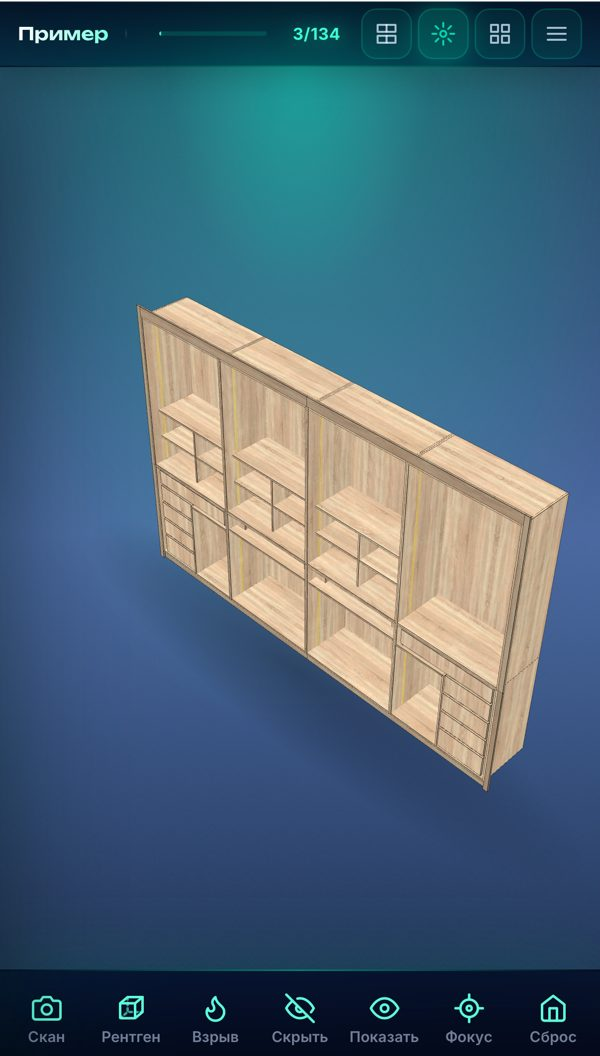
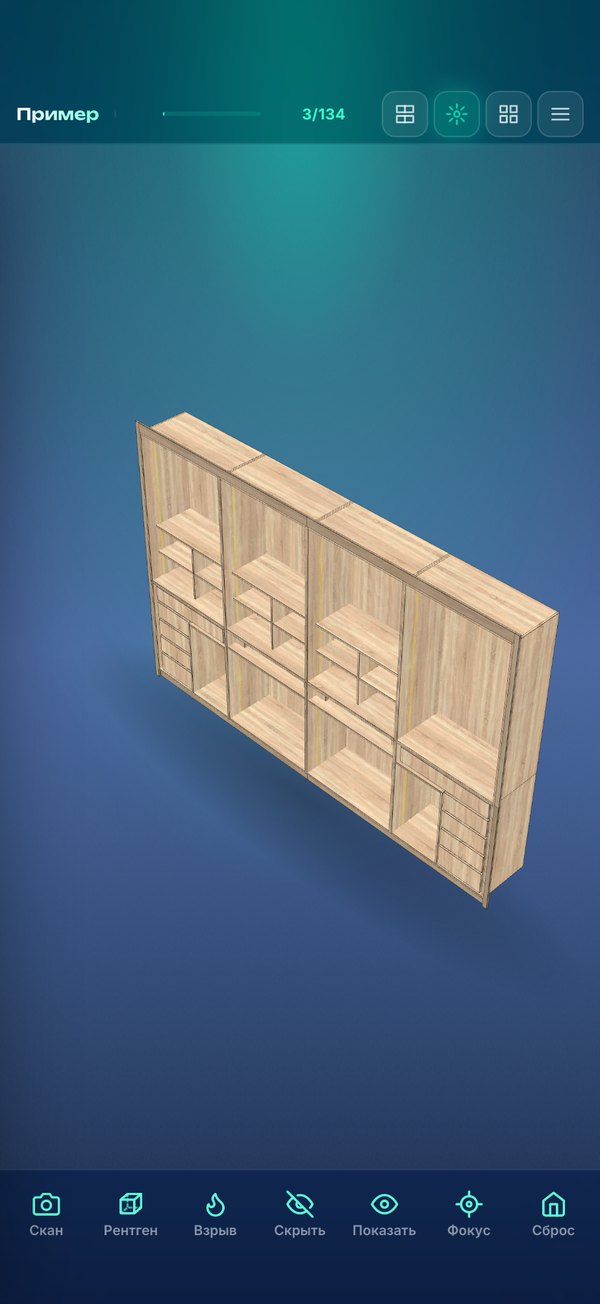
Панели «Дымчатое стекло»; закрытая карточка детали не выглядывает; лендинг: рамка как у iPhone Pro Max (титан, тонкая кайма, Dynamic Island, строка состояния) и новые скриншоты в пропорциях Pro Max (sw v39, styles v23)

Changed region(s): [[0.21, 0.2812, 0.96, 0.75], [0.0, 0.0, 1.0, 0.125], [0.0, 0.875, 1.0, 1.0]]

diff --git a/index.html b/index.html
@@ -375,11 +375,31 @@
     /* витрина: телефон */
     .phone-show { display: flex; justify-content: center; position: relative; }
     .phone-show::before { content: ''; position: absolute; inset: 10% 20%; background: radial-gradient(closest-side, rgba(0, 212, 170, 0.28), transparent); filter: blur(40px); z-index: -1; }
-    .phone-frame { position: relative; width: min(300px, 78vw); padding: 10px; border-radius: 46px;
-      background: linear-gradient(145deg, #2a3550, #0b1022 40%, #1b2540);
-      box-shadow: 0 0 0 1px rgba(255, 255, 255, 0.12), 0 50px 100px rgba(0, 0, 0, 0.6), 0 0 90px rgba(0, 212, 170, 0.18); }
-    .phone-frame .shots { aspect-ratio: 600 / 1056; border-radius: 37px; overflow: hidden; background: #000; }
-    .phone-island { position: absolute; z-index: 3; top: 20px; left: 50%; width: 84px; height: 24px; margin-left: -42px; border-radius: 20px; background: #000; }
+    /* Рамка как у iPhone Pro Max: тонкий титановый обод, узкая чёрная кайма, экран 440×956 */
+    .phone-frame { --pw: min(300px, 78vw); --sw: calc(var(--pw) - 14px);
+      position: relative; width: var(--pw); padding: 2.5px; border-radius: calc(var(--sw) * 0.125 + 7px);
+      background: linear-gradient(135deg, #9da2aa 0%, #4a4e55 14%, #d6d9de 30%, #5b5f66 48%, #2e3136 66%, #a9adb4 86%, #60646b 100%);
+      box-shadow: 0 70px 110px -40px rgba(0, 0, 0, 0.85), 0 30px 60px rgba(0, 0, 0, 0.45), 0 0 90px rgba(0, 212, 170, 0.12); }
+    .pf-bezel { padding: 4.5px; border-radius: calc(var(--sw) * 0.125 + 4.5px); background: #000;
+      box-shadow: inset 0 0 0 1px rgba(255, 255, 255, 0.07); }
+    .pf-screen { position: relative; border-radius: calc(var(--sw) * 0.125); overflow: hidden; background: #000; }
+    .pf-screen::after { content: ''; position: absolute; inset: 0; z-index: 4; pointer-events: none;
+      background: linear-gradient(118deg, rgba(255, 255, 255, 0.12) 0%, rgba(255, 255, 255, 0) 30%); }
+    .phone-frame .shots { aspect-ratio: 440 / 956; }
+    .phone-island { position: absolute; z-index: 3; top: calc(var(--sw) * 0.025); left: 50%;
+      width: calc(var(--sw) * 0.286); height: calc(var(--sw) * 0.084); transform: translateX(-50%); border-radius: 99px; background: #000; }
+    .pf-status { position: absolute; z-index: 3; left: 0; right: 0; top: calc(var(--sw) * 0.025); height: calc(var(--sw) * 0.084);
+      display: flex; align-items: center; justify-content: space-between; padding: 0 calc(var(--sw) * 0.085) 0 calc(var(--sw) * 0.11);
+      color: #fff; font: 600 calc(var(--sw) * 0.039) / 1 Inter, system-ui, sans-serif; letter-spacing: -0.01em; }
+    .pf-status i { display: flex; align-items: center; gap: calc(var(--sw) * 0.014); }
+    .pf-status svg { height: calc(var(--sw) * 0.03); width: auto; }
+    .pf-status svg.bat { height: calc(var(--sw) * 0.034); }
+    .pf-home { position: absolute; z-index: 3; left: 50%; bottom: calc(var(--sw) * 0.018); transform: translateX(-50%);
+      width: calc(var(--sw) * 0.32); height: calc(var(--sw) * 0.012); border-radius: 99px; background: rgba(255, 255, 255, 0.85); }
+    .pf-btn { position: absolute; width: 3px; border-radius: 2px; background: linear-gradient(90deg, #4f535a, #b4b8bf 60%, #6b6f76); }
+    .pf-btn.l { left: -2px; } .pf-btn.r { right: -2px; background: linear-gradient(90deg, #6b6f76, #b4b8bf 40%, #4f535a); }
+    .pf-action { top: 17%; height: 4.2%; } .pf-vol1 { top: 24%; height: 7.5%; } .pf-vol2 { top: 33%; height: 7.5%; }
+    .pf-side { top: 26%; height: 11%; } .pf-cam { top: 57%; height: 6.5%; background: linear-gradient(90deg, #2a2d31, #6d7178) !important; }
     .shot-tabs { flex-wrap: wrap; justify-content: center; }
 
     /* возможности: компактнее на телефоне — по две в ряд */
@@ -503,13 +523,18 @@
     </div>
     <div class="phone-show rv">
       <div class="phone-frame">
+        <span class="pf-btn l pf-action" aria-hidden="true"></span><span class="pf-btn l pf-vol1" aria-hidden="true"></span><span class="pf-btn l pf-vol2" aria-hidden="true"></span><span class="pf-btn r pf-side" aria-hidden="true"></span><span class="pf-btn r pf-cam" aria-hidden="true"></span>
+        <div class="pf-bezel"><div class="pf-screen">
         <span class="phone-island" aria-hidden="true"></span>
+        <div class="pf-status" aria-hidden="true"><span>9:41</span><i><svg viewBox="0 0 17 11" fill="#fff"><rect x="0" y="7" width="3" height="4" rx="1"/><rect x="4.5" y="5" width="3" height="6" rx="1"/><rect x="9" y="2.5" width="3" height="8.5" rx="1"/><rect x="13.5" y="0" width="3" height="11" rx="1"/></svg><svg viewBox="0 0 16 11" fill="#fff"><path d="M8 2.2c2.3 0 4.4.9 6 2.4l1.2-1.3A10.3 10.3 0 0 0 8 .4C5.2.4 2.7 1.5.8 3.3L2 4.6a8.6 8.6 0 0 1 6-2.4zm0 3.6c1.3 0 2.5.5 3.4 1.3l1.2-1.3A6.6 6.6 0 0 0 8 4c-1.8 0-3.4.7-4.6 1.8l1.2 1.3c.9-.8 2.1-1.3 3.4-1.3zM8 9.4l1.9-2a2.8 2.8 0 0 0-3.8 0z"/></svg><svg class="bat" viewBox="0 0 27 13"><rect x=".5" y=".5" width="23" height="12" rx="3.5" fill="none" stroke="#fff" stroke-opacity=".45"/><rect x="2" y="2" width="20" height="9" rx="2.2" fill="#fff"/><path d="M25 4.5v4c.8-.3 1.5-1.1 1.5-2s-.7-1.7-1.5-2z" fill="#fff" fill-opacity=".45"/></svg></i></div>
+        <span class="pf-home" aria-hidden="true"></span>
         <div class="shots" id="shots">
-          <img class="on" src="img/scr-model.jpg" width="600" height="1056" decoding="async" alt="3D-модель шкафа с текстурой дуба в приложении Aivo Scan">
-          <img src="img/scr-explode.jpg" width="600" height="1056" loading="lazy" decoding="async" alt="Режим взрыва: шкаф разобран на детали">
-          <img src="img/scr-sel.jpg" width="600" height="1056" loading="lazy" decoding="async" alt="Найденная деталь подсвечена в модели, внизу её код и размеры">
-          <img src="img/scr-check.jpg" width="600" height="1056" loading="lazy" decoding="async" alt="Чеклист проверки по модулям со счётчиками">
+          <img class="on" src="img/scr-model.jpg" width="600" height="1304" decoding="async" alt="3D-модель шкафа с текстурой дуба в приложении Aivo Scan">
+          <img src="img/scr-explode.jpg" width="600" height="1304" loading="lazy" decoding="async" alt="Режим взрыва: шкаф разобран на детали">
+          <img src="img/scr-sel.jpg" width="600" height="1304" loading="lazy" decoding="async" alt="Найденная деталь подсвечена в модели, внизу её код и размеры">
+          <img src="img/scr-check.jpg" width="600" height="1304" loading="lazy" decoding="async" alt="Чеклист проверки по модулям со счётчиками">
         </div>
+        </div></div>
       </div>
     </div>
     <div class="shot-tabs" role="tablist" aria-label="Экраны приложения">

diff --git a/styles.css b/styles.css
@@ -2456,3 +2456,18 @@ body:not(.light-theme) .login-container { background: linear-gradient(160deg, rg
   .bottom-sheet:not([data-state="collapsed"]) .sheet-header,
   .bottom-sheet:not([data-state="collapsed"]) .sheet-content { animation: none; }
 }
+
+/* ===== Панели «Дымчатое стекло» (14.11.2026, выбор владельца вместо синих панелей) =====
+   Прозрачное стекло с сильным размытием: сквозь панель виден 3D-фон. Только тёмная тема. */
+body:not(.light-theme) { --bg-tertiary:rgba(255,255,255,0.07); --bg-card:rgba(255,255,255,0.05); --border:rgba(255,255,255,0.12);
+  --text-primary:#ffffff; --text-secondary:rgba(255,255,255,0.74); --text-tertiary:rgba(255,255,255,0.52); }
+body:not(.light-theme) .drawer, body:not(.light-theme) .checklist-panel, body:not(.light-theme) .empty-card, body:not(.light-theme) .bottom-sheet, body:not(.light-theme) .modal-content, body:not(.light-theme) .modal-box { background: linear-gradient(180deg, rgba(255,255,255,0.10), rgba(255,255,255,0.04)), rgba(8,12,20,0.42) !important;
+  backdrop-filter: blur(40px) saturate(1.8) !important; -webkit-backdrop-filter: blur(40px) saturate(1.8) !important;
+  border: 1px solid rgba(255,255,255,0.14) !important; box-shadow: 0 24px 60px rgba(0,0,0,0.35), inset 0 1px 0 rgba(255,255,255,0.18) !important; }
+body:not(.light-theme) .top-panel, body:not(.light-theme) .bottom-toolbar { background: rgba(8,12,20,0.38) !important; backdrop-filter: blur(30px) saturate(1.8) !important; -webkit-backdrop-filter: blur(30px) saturate(1.8) !important; border-image:none !important; border-color: rgba(255,255,255,0.12) !important; box-shadow:none !important; }
+body:not(.light-theme) .drawer-action-btn, body:not(.light-theme) .id-mode-toggle, body:not(.light-theme) .project-open, body:not(.light-theme) .top-btn { background: rgba(255,255,255,0.08) !important; border-color: rgba(255,255,255,0.14) !important; box-shadow:none !important; }
+body:not(.light-theme) .detail-card, body:not(.light-theme) .sheet-preview { background: rgba(255,255,255,0.06) !important; }
+body:not(.light-theme) .stat-value, body:not(.light-theme) .checklist-num > span:first-child { text-shadow:none !important; }
+
+/* Закрытая карточка детали не выглядывает над нижней панелью (на iPhone с «чёлкой» снизу) */
+.bottom-sheet:not(.open) { visibility: hidden; transition: transform var(--dur-slow) var(--ease-bounce), visibility 0s linear var(--dur-slow) !important; }

diff --git a/app.html b/app.html
@@ -30,7 +30,7 @@
   <link rel="preconnect" href="https://fonts.googleapis.com">
   <link rel="preconnect" href="https://fonts.gstatic.com" crossorigin>
   <link rel="stylesheet" href="https://fonts.googleapis.com/css2?family=Unbounded:wght@500;600;700&family=Inter:wght@400;500;600;700;800&family=JetBrains+Mono:wght@400;500;600;700&display=swap&subset=cyrillic">
-  <link rel="stylesheet" href="styles.css?v=22">
+  <link rel="stylesheet" href="styles.css?v=23">
 </head>
 <body>
 

diff --git a/sw.js b/sw.js
@@ -1,4 +1,4 @@
-const CACHE_NAME = 'aivo-scan-v38';
+const CACHE_NAME = 'aivo-scan-v39';
 // Всё, что нужно приложению для работы без интернета (после первого открытия).
 const STATIC_ASSETS = [
   '/',
